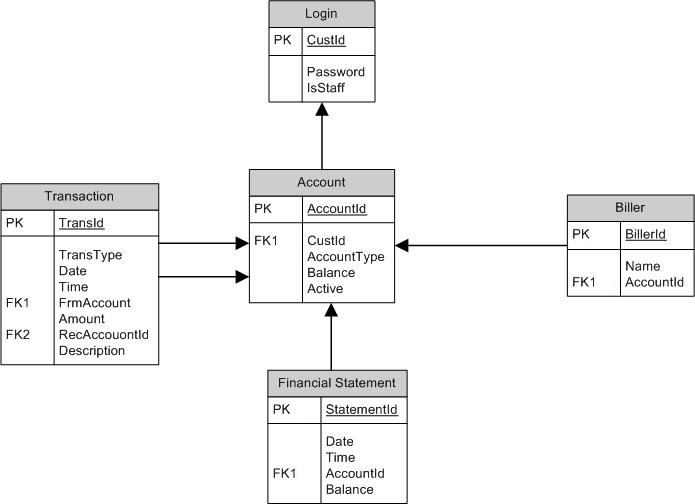
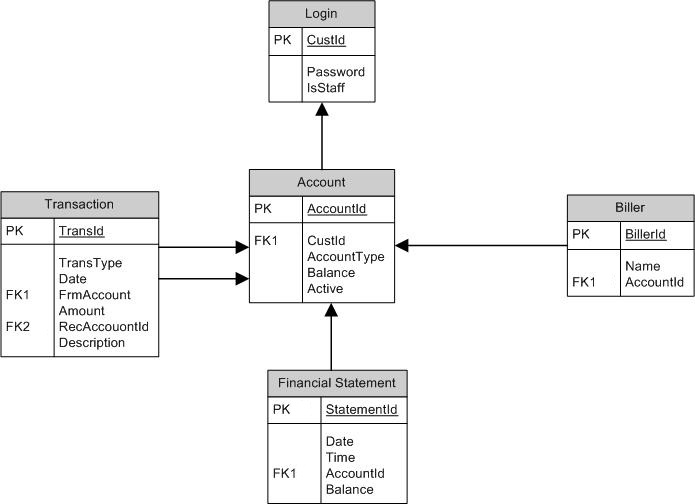
fixed to work with the new time in Milliseconds

Changed region(s): [[0.0, 0.3571, 0.3626, 0.744], [0.2115, 0.5357, 0.3626, 0.5655]]

diff --git a/SwinBank/SwinBank-ejb/src/java/swinbank/server/entity/Transactions.java b/SwinBank/SwinBank-ejb/src/java/swinbank/server/entity/Transactions.java
@@ -16,8 +16,6 @@ import javax.persistence.Id;
 import javax.persistence.NamedQueries;
 import javax.persistence.NamedQuery;
 import javax.persistence.Table;
-import javax.persistence.Temporal;
-import javax.persistence.TemporalType;
 
 /**
  *
@@ -25,7 +23,7 @@ import javax.persistence.TemporalType;
  */
 @Entity
 @Table(name = "TRANSACTIONS")
-@NamedQueries({@NamedQuery(name = "Transactions.findAll", query = "SELECT t FROM Transactions t"), @NamedQuery(name = "Transactions.findByTransid", query = "SELECT t FROM Transactions t WHERE t.transid = :transid"), @NamedQuery(name = "Transactions.findByTranstype", query = "SELECT t FROM Transactions t WHERE t.transtype = :transtype"), @NamedQuery(name = "Transactions.findByDate", query = "SELECT t FROM Transactions t WHERE t.date = :date"), @NamedQuery(name = "Transactions.findByTime", query = "SELECT t FROM Transactions t WHERE t.time = :time"), @NamedQuery(name = "Transactions.findByFromaccountid", query = "SELECT t FROM Transactions t WHERE t.fromaccountid = :fromaccountid"), @NamedQuery(name = "Transactions.findByAmount", query = "SELECT t FROM Transactions t WHERE t.amount = :amount"), @NamedQuery(name = "Transactions.findByRecaccountid", query = "SELECT t FROM Transactions t WHERE t.recaccountid = :recaccountid"), @NamedQuery(name = "Transactions.findByDescription", query = "SELECT t FROM Transactions t WHERE t.description = :description"), @NamedQuery(name = "Transactions.findTransactionList", query = "SELECT t FROM Transactions t WHERE (t.fromaccountid = :account OR t.recaccountid = :account) AND t.date <= :todate AND t.date >= :fromdate")})
+@NamedQueries({@NamedQuery(name = "Transactions.findAll", query = "SELECT t FROM Transactions t"), @NamedQuery(name = "Transactions.findByTransid", query = "SELECT t FROM Transactions t WHERE t.transid = :transid"), @NamedQuery(name = "Transactions.findByTranstype", query = "SELECT t FROM Transactions t WHERE t.transtype = :transtype"), @NamedQuery(name = "Transactions.findByDate", query = "SELECT t FROM Transactions t WHERE t.date = :date"), @NamedQuery(name = "Transactions.findByFromaccountid", query = "SELECT t FROM Transactions t WHERE t.fromaccountid = :fromaccountid"), @NamedQuery(name = "Transactions.findByAmount", query = "SELECT t FROM Transactions t WHERE t.amount = :amount"), @NamedQuery(name = "Transactions.findByRecaccountid", query = "SELECT t FROM Transactions t WHERE t.recaccountid = :recaccountid"), @NamedQuery(name = "Transactions.findByDescription", query = "SELECT t FROM Transactions t WHERE t.description = :description"), @NamedQuery(name = "Transactions.findTransactionList", query = "SELECT t FROM Transactions t WHERE (t.fromaccountid = :account OR t.recaccountid = :account) AND t.date <= :todate AND t.date >= :fromdate")})
 public class Transactions implements Serializable {
     private static final long serialVersionUID = 1L;
     @Id
@@ -36,11 +34,7 @@ public class Transactions implements Serializable {
     @Column(name = "TRANSTYPE")
     private Character transtype;
     @Column(name = "DATE")
-    @Temporal(TemporalType.DATE)
-    private Date date;
-    @Column(name = "TIME")
-    @Temporal(TemporalType.TIME)
-    private Date time;
+    private Long date;
     @Column(name = "FROMACCOUNTID")
     private String fromaccountid;
     @Column(name = "AMOUNT")
@@ -73,20 +67,12 @@ public class Transactions implements Serializable {
         this.transtype = transtype;
     }
 
-    public Date getDate() {
+    public Long getDate() {
         return date;
     }
 
-    public void setDate(Date date) {
+    public void setDate(Long date) {
         this.date = date;
-    }
-
-    public Date getTime() {
-        return time;
-    }
-
-    public void setTime(Date time) {
-        this.time = time;
     }
 
     public String getFromaccountid() {

diff --git a/SwinBank/SwinBank-DB/src/java/swinbankdb/DB.java b/SwinBank/SwinBank-DB/src/java/swinbankdb/DB.java
@@ -78,12 +78,12 @@ public class DB {
 
 
             //creates and populates the Transactions Table with Sample data.
-            stmnt.execute("CREATE TABLE TRANSACTIONS (TransId INT GENERATED ALWAYS AS IDENTITY CONSTRAINT PK_TRANSACTIONS PRIMARY KEY, TransType CHAR, Date DATE, Time TIME, FromAccountId CHAR(14), Amount DOUBLE, RecAccountId CHAR(14), Description CHAR(128))");
-            stmnt.executeUpdate("INSERT INTO TRANSACTIONS(TransType, Date, Time, FromAccountId, Amount, RecAccountId, Description) VALUES" + "('D', '2010-04-06', '12:30:25', NULL, 100.00, '1', '' )");
-            stmnt.executeUpdate("INSERT INTO TRANSACTIONS(TransType, Date, Time, FromAccountId, Amount, RecAccountId, Description) VALUES" + "('D', '2010-04-15', '16:30:25', NULL, 200.00, '2', '' )");
-            stmnt.executeUpdate("INSERT INTO TRANSACTIONS(TransType, Date, Time, FromAccountId, Amount, RecAccountId, Description) VALUES" + "('T', '2010-04-20', '13:30:25', '3', 100.00, '4', '' )");
-            stmnt.executeUpdate("INSERT INTO TRANSACTIONS(TransType, Date, Time, FromAccountId, Amount, RecAccountId, Description) VALUES" + "('B', '2010-04-21', '14:30:25', '1', 150.00, '1', '' )");
-            stmnt.executeUpdate("INSERT INTO TRANSACTIONS(TransType, Date, Time, FromAccountId, Amount, RecAccountId, Description) VALUES" + "('W', '2010-04-25', '09:30:25', '1', 100.00, NULL, '' )");
+            stmnt.execute("CREATE TABLE TRANSACTIONS (TransId INT GENERATED ALWAYS AS IDENTITY CONSTRAINT PK_TRANSACTIONS PRIMARY KEY, TransType CHAR, Date LONG, FromAccountId CHAR(14), Amount DOUBLE, RecAccountId CHAR(14), Description CHAR(128))");
+            stmnt.executeUpdate("INSERT INTO TRANSACTIONS(TransType, Date, Time, FromAccountId, Amount, RecAccountId, Description) VALUES" + "('D', '1275608700000', NULL, 100.00, '1', '' )");
+            stmnt.executeUpdate("INSERT INTO TRANSACTIONS(TransType, Date, Time, FromAccountId, Amount, RecAccountId, Description) VALUES" + "('D', '1278028024000', NULL, 200.00, '2', '' )");
+            stmnt.executeUpdate("INSERT INTO TRANSACTIONS(TransType, Date, Time, FromAccountId, Amount, RecAccountId, Description) VALUES" + "('T', '1278215224000', '3', 100.00, '4', '' )");
+            stmnt.executeUpdate("INSERT INTO TRANSACTIONS(TransType, Date, Time, FromAccountId, Amount, RecAccountId, Description) VALUES" + "('B', '1280898004000', '1', 150.00, '1', '' )");
+            stmnt.executeUpdate("INSERT INTO TRANSACTIONS(TransType, Date, Time, FromAccountId, Amount, RecAccountId, Description) VALUES" + "('W', '1280955643000', '1', 100.00, NULL, '' )");
 
 
             //creates and populates the Financials Table with Sample data.

diff --git a/SwinBank/SwinBank-ejb/src/java/swinbank/server/ejb/transaction/TransactionBean.java b/SwinBank/SwinBank-ejb/src/java/swinbank/server/ejb/transaction/TransactionBean.java
@@ -14,17 +14,13 @@ import javax.persistence.NoResultException;
 import javax.persistence.PersistenceContext;
 import swinbank.server.entity.Account;
 import swinbank.server.entity.Billers;
-import swinbank.server.entity.Login;
 import swinbank.server.entity.Transactions;
 import swinbank.server.policy.AccessDeniedException;
-import swinbank.server.policy.AccountType;
 import swinbank.server.policy.ClientType;
 import swinbank.server.policy.InvalidAccountException;
 import swinbank.server.policy.InvalidAmmountException;
 import swinbank.server.policy.InvalidClientException;
 import swinbank.server.policy.InvalidFundsException;
-import swinbank.server.policy.SwinDatabase;
-import swinbank.server.policy.SwinDatabase.UserAccount;
 import swinbank.server.policy.TransactionType;
 
 /**
@@ -242,8 +238,7 @@ public class TransactionBean {
     private void newTransaction(TransactionType type, Account fromAccount, Account recAccount, Double amount, String description) {
         Transactions tran = new Transactions();
         tran.setAmount(amount);
-        tran.setDate(new Date());
-        tran.setTime(new Date());
+        tran.setDate(new Date().getTime());
         tran.setDescription(description);
         tran.setFromaccountid(fromAccount.getAccountid().toString());
         tran.setRecaccountid(fromAccount.getAccountid().toString());

diff --git a/SwinBank/SwinBank-ejb/src/java/swinbank/server/ejb/account/AccountsBean.java b/SwinBank/SwinBank-ejb/src/java/swinbank/server/ejb/account/AccountsBean.java
@@ -184,12 +184,6 @@ public class AccountsBean implements AccountRemote {
             //check if the customer owns the accounts
             if (account.getCustid() == login.getCustid()) {
                 List<Transactions> transcationList = em.createNamedQuery("Transactions.findTransactionList").setParameter("account", account.getAccountid()).setParameter("todate", toDate).setParameter("fromdate", fromDate).getResultList();
-
-                /*
-                 *
-                 *  //TODO:Still need to fix up the thing with the data/time
-                 *
-                 */
                 return transcationList;
             } else {
                 throw new AccessDeniedException("\nYou do not own of the Account!");
